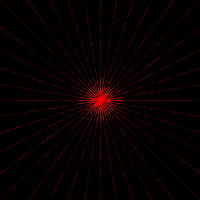
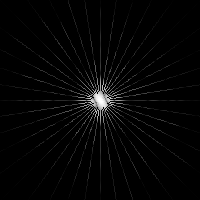
fixing the filter and adding comments

diff --git a/src/main/java/com/example/courseworkgui/ProjectionViewer.java b/src/main/java/com/example/courseworkgui/ProjectionViewer.java
@@ -481,6 +481,7 @@ public class ProjectionViewer extends Application {
         plot.getDomainAxis().setRange(minX, maxX);
     }
 
+    // Метод для деления каждого элемента массива на произведение M и N.
     private void divSize(double[] array, int M, int N) {
         // Перебираем все элементы массива
         for (int i = 0; i < M*N; i++) {
@@ -490,6 +491,7 @@ public class ProjectionViewer extends Application {
         }
     }
 
+    // Метод для умножения каждого элемента массива на (-1) в степени суммы индексов i и j.
     private void multiplyByMinusOnePowerSum(double[] array, int M, int N) {
         // Перебираем все строки массива
         for (int i = 0; i < M; i++) {
@@ -504,6 +506,7 @@ public class ProjectionViewer extends Application {
         }
     }
 
+    // Метод для получения преобразований Фурье проекций.
     private double[] getFourierTransformsOfProjections(double[] projections, int buffN, int M) {
         // Вычисляем размер спектра
         int N = buffN * 4;
@@ -529,34 +532,24 @@ public class ProjectionViewer extends Application {
         return result;
     }
 
-//    private double[][] calculateMagnitude(double[][] complexArray) {
-//        int N = complexArray.length;
-//        double[][] magnitude = new double[N][N];
-//        for (int i = 0; i < N; i++) {
-//            for (int j = 0; j < N; j++) {
-//                double real = complexArray[i][2*j];
-//                double imag = complexArray[i][2*j+1];
-//                magnitude[i][j] = Math.sqrt(real*real + imag*imag);
-//            }
-//        }
-//        return magnitude;
-//    }
-private double[] calculateMagnitude(double[] complexArray, int M, int N) {
-    // Создаем массив для хранения магнитуды
-    double[] magnitude = new double[M * N];
-    // Перебираем все элементы комплексного массива
-    for (int i = 0; i < M * N; i++) {
-        // Вычисляем реальную и мнимую части комплексного числа
-        double real = complexArray[2 * i];
-        double imag = complexArray[2 * i + 1];
-        // Вычисляем магнитуду комплексного числа
-        magnitude[i] = Math.sqrt(real*real + imag*imag);
-        // Применяем логарифмическую шкалу к магнитуде
-        magnitude[i] = Math.log(1 + magnitude[i]);
+    // Метод для вычисления магнитуды комплексного массива.
+    private double[] calculateMagnitude(double[] complexArray, int M, int N) {
+        // Создаем массив для хранения магнитуды
+        double[] magnitude = new double[M * N];
+        // Перебираем все элементы комплексного массива
+        for (int i = 0; i < M * N; i++) {
+            // Вычисляем реальную и мнимую части комплексного числа
+            double real = complexArray[2 * i];
+            double imag = complexArray[2 * i + 1];
+            // Вычисляем магнитуду комплексного числа
+            magnitude[i] = Math.sqrt(real*real + imag*imag);
+            // Применяем логарифмическую шкалу к магнитуде
+            magnitude[i] = Math.log(1 + magnitude[i]);
+        }
+        return magnitude;
     }
-    return magnitude;
-}
 
+    // Метод для масштабирования массива от 0 до 255.
     public static double[] scaleArrayN(double[] arr) {
         // Инициализируем минимальное и максимальное значения массива
         double min = arr[0];
@@ -570,7 +563,6 @@ private double[] calculateMagnitude(double[] complexArray, int M, int N) {
                 max = arr[i];
             }
         }
-
         // Масштабируем значения от 0 до 255
         double[] scaledArray = new double[arr.length];
         for (int i = 0; i < arr.length; i++) {
@@ -580,6 +572,7 @@ private double[] calculateMagnitude(double[] complexArray, int M, int N) {
         return scaledArray;
     }
 
+
     // Метод для синтеза изображения из проекций
     private BufferedImage[] synthesizeImage(double[] projections, int buffN, int M) {
         // Устанавливаем размер изображения
@@ -588,29 +581,34 @@ private double[] calculateMagnitude(double[] complexArray, int M, int N) {
         BufferedImage[] images = new BufferedImage[2];
         // Создаем массив для хранения синтезированного FFT
         double[] synthesized_fft = new double[(N * N)*2];
-        // Инициализируем переменную для хранения угла
-        double buffQ = 0;
+        double buffQ = 0; // Начальный угол поворота в градусах
 
         // Получаем спектры проекций
         double[] projectionsDft = getFourierTransformsOfProjections(projections, buffN, M);
 
-        // Перебираем все проекции
+        // Цикл по “M” одномерным образам проекций.
         for (int p = 0; p < M; p++) {
-            // Вычисляем косинус и синус угла
+            // Вычисляем косинус и синус угла поворота
             double cosA = Math.cos(Math.toRadians(buffQ));
             double sinA = Math.sin(Math.toRadians(buffQ));
 
-            // Перебираем все точки в проекции
+            //s – номер ячейки в образе проекции.
+            // Ячейка “s” в массиве с текущим образом проекции
             for (int s = 0; s < N; s++) {
                 // Вычисляем координаты точки в пространстве
-                double t = (s - (N / 2));
-                double wx = t * cosA;
-                double wy = t * sinA;
-                int x = (int) Math.round(wx + (N / 2));
-                int y = (int) Math.round(wy + (N / 2));
+                double t = (s - (N / 2)); // координата “t” ячейки “s” в полярной системе с углом Q.
+                                          // “s - (N / 2)” – чтобы образы проекций при повороте были
+                                          // симметричны относительно начала координат (точки “0”).
+                double wx = t * cosA; // Координата “wx” в прямоугольной системе координат.
+                double wy = t * sinA; // Координата “wy” в прямоугольной системе координат.
+                int x = (int) Math.round(wx + (N / 2)); //номер столбца в синтезируемом двумерном фурье-образе.
+                                                        // “wx + (N / 2)” – поскольку в массиве нет ячеек с отрицательными индексами.
+                int y = (int) Math.round(wy + (N / 2)); //номер строки в синтезируемом двумерном фурье-образе.
+                                                        // “wy + (N / 2)” – поскольку в массиве нет ячеек с отрицательными индексами.
 
-                // Если координаты в пределах изображения, копируем данные в синтезированный FFT
+                //Чтобы не выйти за диапазон массива.
                 if (x < N && x > -1 && y < N && y > -1) {
+                    // Синтезируемый 2D спектр искомого сечения
                     synthesized_fft[2 * (x * N + y)] = projectionsDft[2 * ((p * N) + s)];
                     synthesized_fft[2 * (x * N + y) + 1] = projectionsDft[2 * ((p * N) + s) + 1];
                 }
@@ -631,7 +629,7 @@ private double[] calculateMagnitude(double[] complexArray, int M, int N) {
             for (int j = 0; j < N; j++) {
                 int index = i * N + j;
                 int rgb = (int)scaledMagnitudeSpectrum[index];
-                int color = (rgb << 16);
+                int color = (rgb << 16) | (rgb << 8) | (rgb);
                 images[0].setRGB(i, j, color);
             }
         }
@@ -655,7 +653,7 @@ private double[] calculateMagnitude(double[] complexArray, int M, int N) {
             for (int j = 0; j < N; j++) {
                 int index = i * N + j;
                 int rgb = (int)scaledMagnitudeRestored[2*index];
-                int color = (rgb << 16);
+                int color = (rgb << 16) | (rgb << 8) | (rgb);
                 images[1].setRGB(i, j, color);
             }
         }
@@ -666,6 +664,30 @@ private double[] calculateMagnitude(double[] complexArray, int M, int N) {
         return images;
     }
 
+
+    // Метод для обрезки изображения, представленного в виде списка целых чисел.
+    public static List<Integer> cropImage(List<Integer> array) {
+        // Размер блока данных, который будет обрабатываться за один раз.
+        int chunkSize = 800;
+        // Размер области, которую нужно обрезать с каждой стороны блока.
+        int trimSize = 300;
+        // Список для хранения результата обрезки.
+        List<Integer> result = new ArrayList<>();
+
+        // Проходим по входному массиву, обрабатывая блоки данных размером chunkSize и обрезая trimSize с каждой стороны.
+        for (int i = trimSize * chunkSize; i < array.size() - (trimSize * chunkSize); i += chunkSize) {
+            // Выделяем блок данных из входного массива.
+            List<Integer> chunk = array.subList(i, Math.min(i + chunkSize, array.size()));
+            // Обрезаем блок данных, удаляя trimSize элементов с каждой стороны.
+            List<Integer> trimmedChunk = chunk.subList(trimSize, chunk.size() - trimSize);
+            // Добавляем обрезанный блок в результат.
+            result.addAll(trimmedChunk);
+        }
+
+        // Возвращаем результат обрезки.
+        return result;
+    }
+
     // Метод для обрезки изображения до оригинального размера
     private BufferedImage cropImage(BufferedImage image, int originalSize) {
         // Вычисляем размер отступа
@@ -673,6 +695,7 @@ private double[] calculateMagnitude(double[] complexArray, int M, int N) {
         // Возвращаем подизображение
         return image.getSubimage(padding, padding, originalSize, originalSize);
     }
+
 
     // Метод для получения проекции из массива проекций
     private double[] getProjection(double[] projections, int p, int N) {
@@ -705,7 +728,6 @@ private double[] calculateMagnitude(double[] complexArray, int M, int N) {
         for (int i = 0; i < paddedData.length; i++) {
             shiftedData[i] = filteredData[(i + shift) % paddedData.length];
         }
-
         // Возвращаем подготовленные данные
         return shiftedData;
     }
@@ -721,7 +743,6 @@ private double[] calculateMagnitude(double[] complexArray, int M, int N) {
         for (int i = 0; i < fftSpectrum.length; i++) {
             seriesFFT.add(i, fftSpectrum[i]);
         }
-
         // Создаем график для FFT
         XYSeriesCollection datasetFFT = new XYSeriesCollection();
         datasetFFT.addSeries(seriesFFT);
@@ -733,20 +754,27 @@ private double[] calculateMagnitude(double[] complexArray, int M, int N) {
         );
     }
 
-    // Метод для применения Гауссова фильтра к данным
-    private double[] applyGaussianFilter(double[] array, double sigma) {
+    // Метод применяет Гауссовский фильтр к входному массиву с заданной частотой среза.
+    private double[] applyGaussianFilter(double[] array, double cutoffFrequency) {
+
+        // Определяем длину входного массива
         int N = array.length;
+        // Определяем середину входного массива
         int middle = N / 2;
 
-        // Создаем фильтр Гаусса
+        // Создаем Гауссовский фильтр с длиной, равной длине входного массива
         double[] filter = new double[N];
+
+        // Заполняем фильтр Гаусса значениями, основанными на формуле Гаусса
         for (int i = 0; i < N; i++) {
             double x = i - middle;
-            filter[i] = Math.exp(-(x * x) / (2 * sigma * sigma));
+            filter[i] = Math.exp(-(x * x) / (2 * cutoffFrequency * cutoffFrequency));
         }
 
-        // Применяем фильтр к исходному массиву
+        // Создаем массив для хранения отфильтрованных данных
         double[] filteredArray = new double[N];
+
+        // Применяем Гауссовский фильтр к входному массиву
         for (int i = 0; i < N; i++) {
             double sum = 0;
             for (int j = 0; j < N; j++) {
@@ -755,10 +783,10 @@ private double[] calculateMagnitude(double[] complexArray, int M, int N) {
             }
             filteredArray[i] = sum;
         }
-
-        // Нормализация отфильтрованных данных
+        // Нормализуем отфильтрованные данные
         normalizeData(array, filteredArray);
 
+        // Возвращаем отфильтрованный массив
         return filteredArray;
     }
 
@@ -774,11 +802,7 @@ private double[] calculateMagnitude(double[] complexArray, int M, int N) {
         for (int i = 0; i < filteredData.length; i++) {
             filteredData[i] = filteredData[i] * scale + shift;
         }
-
     }
-
-
-
 
 
     public static void main(String[] args) {
